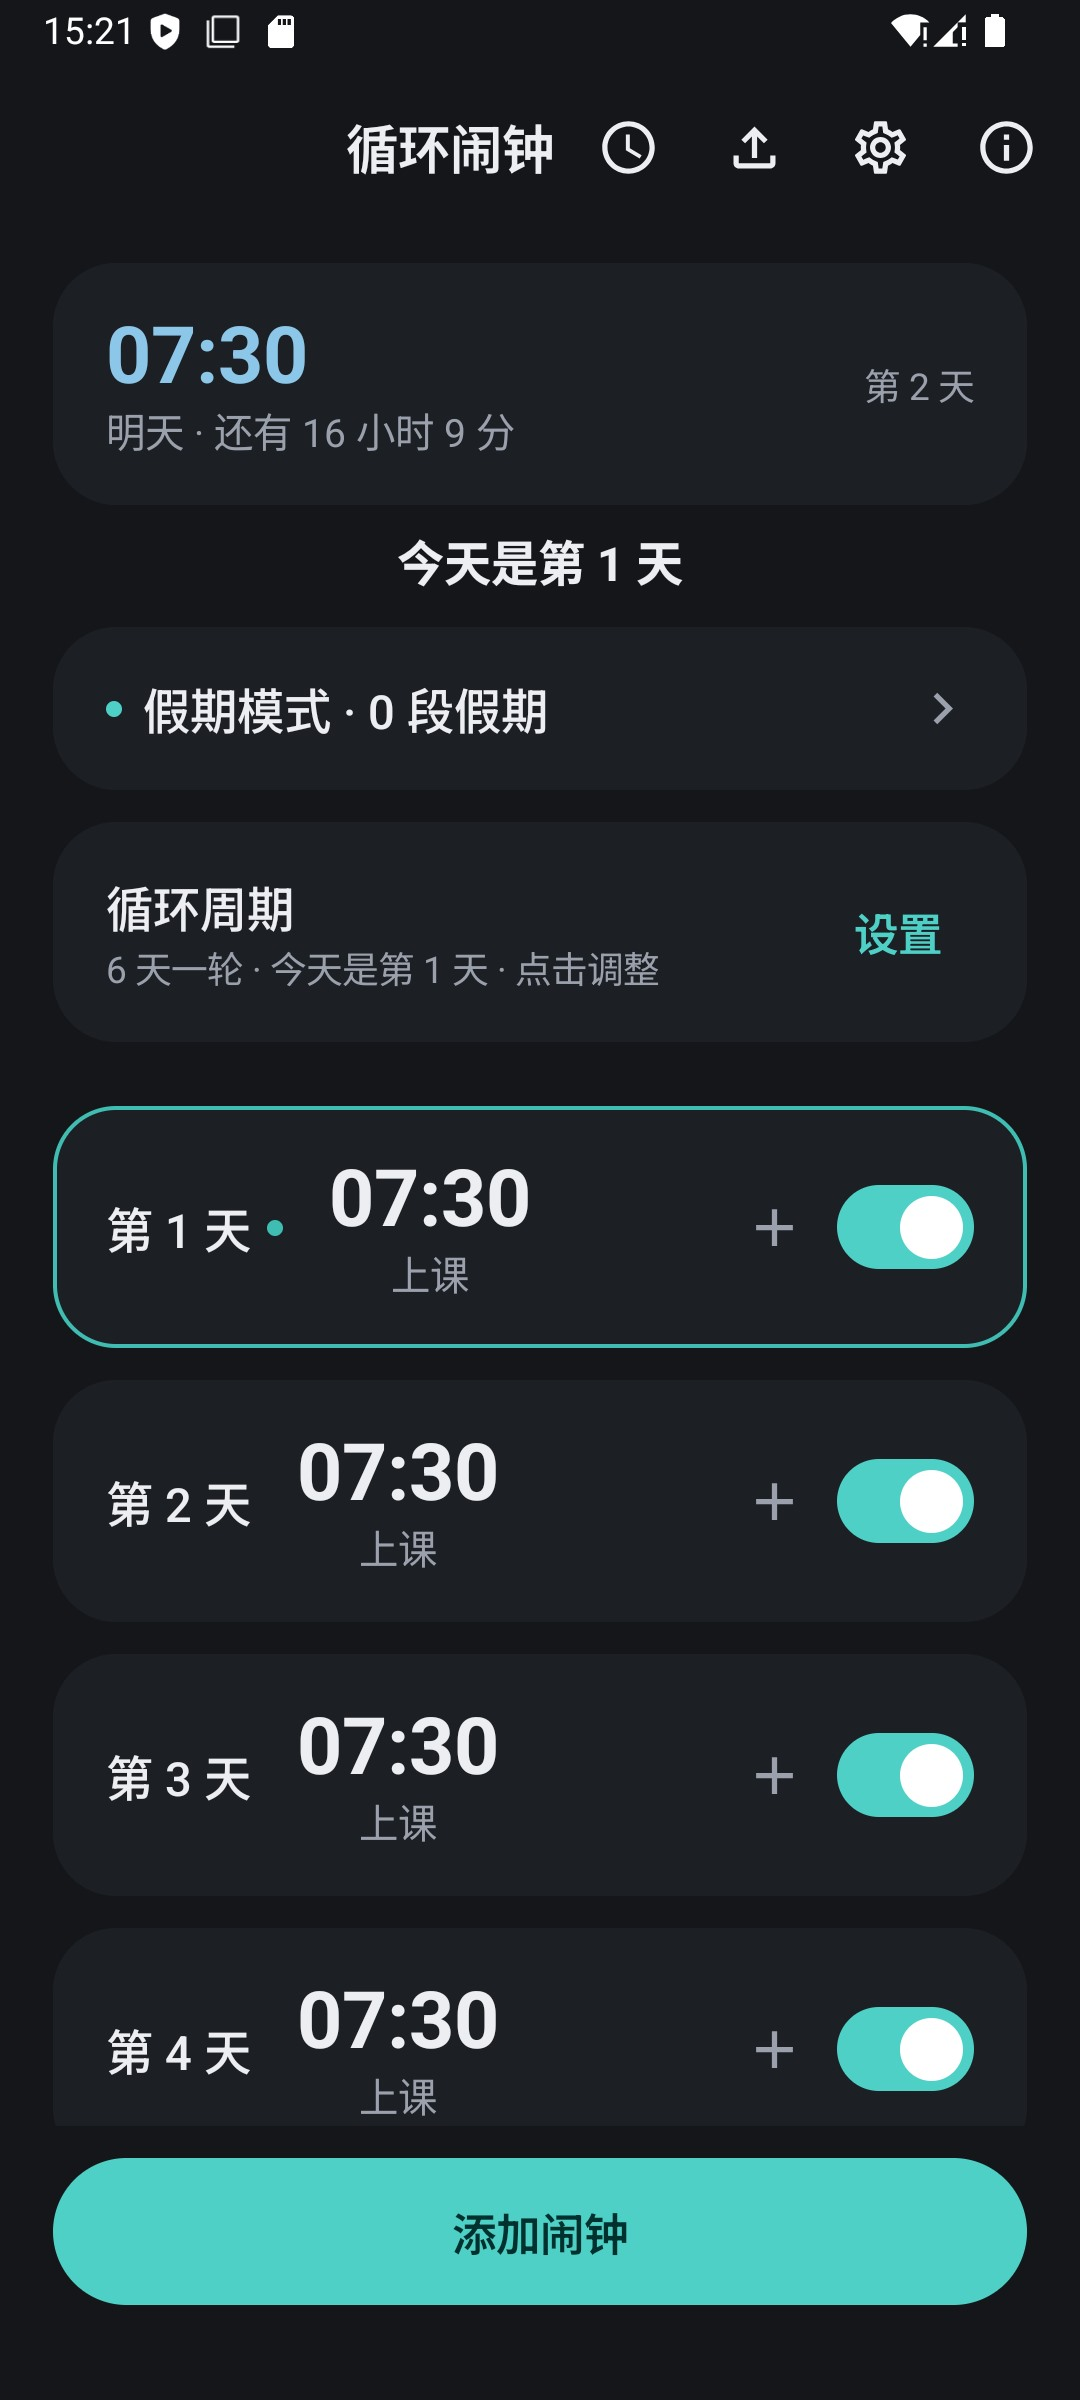
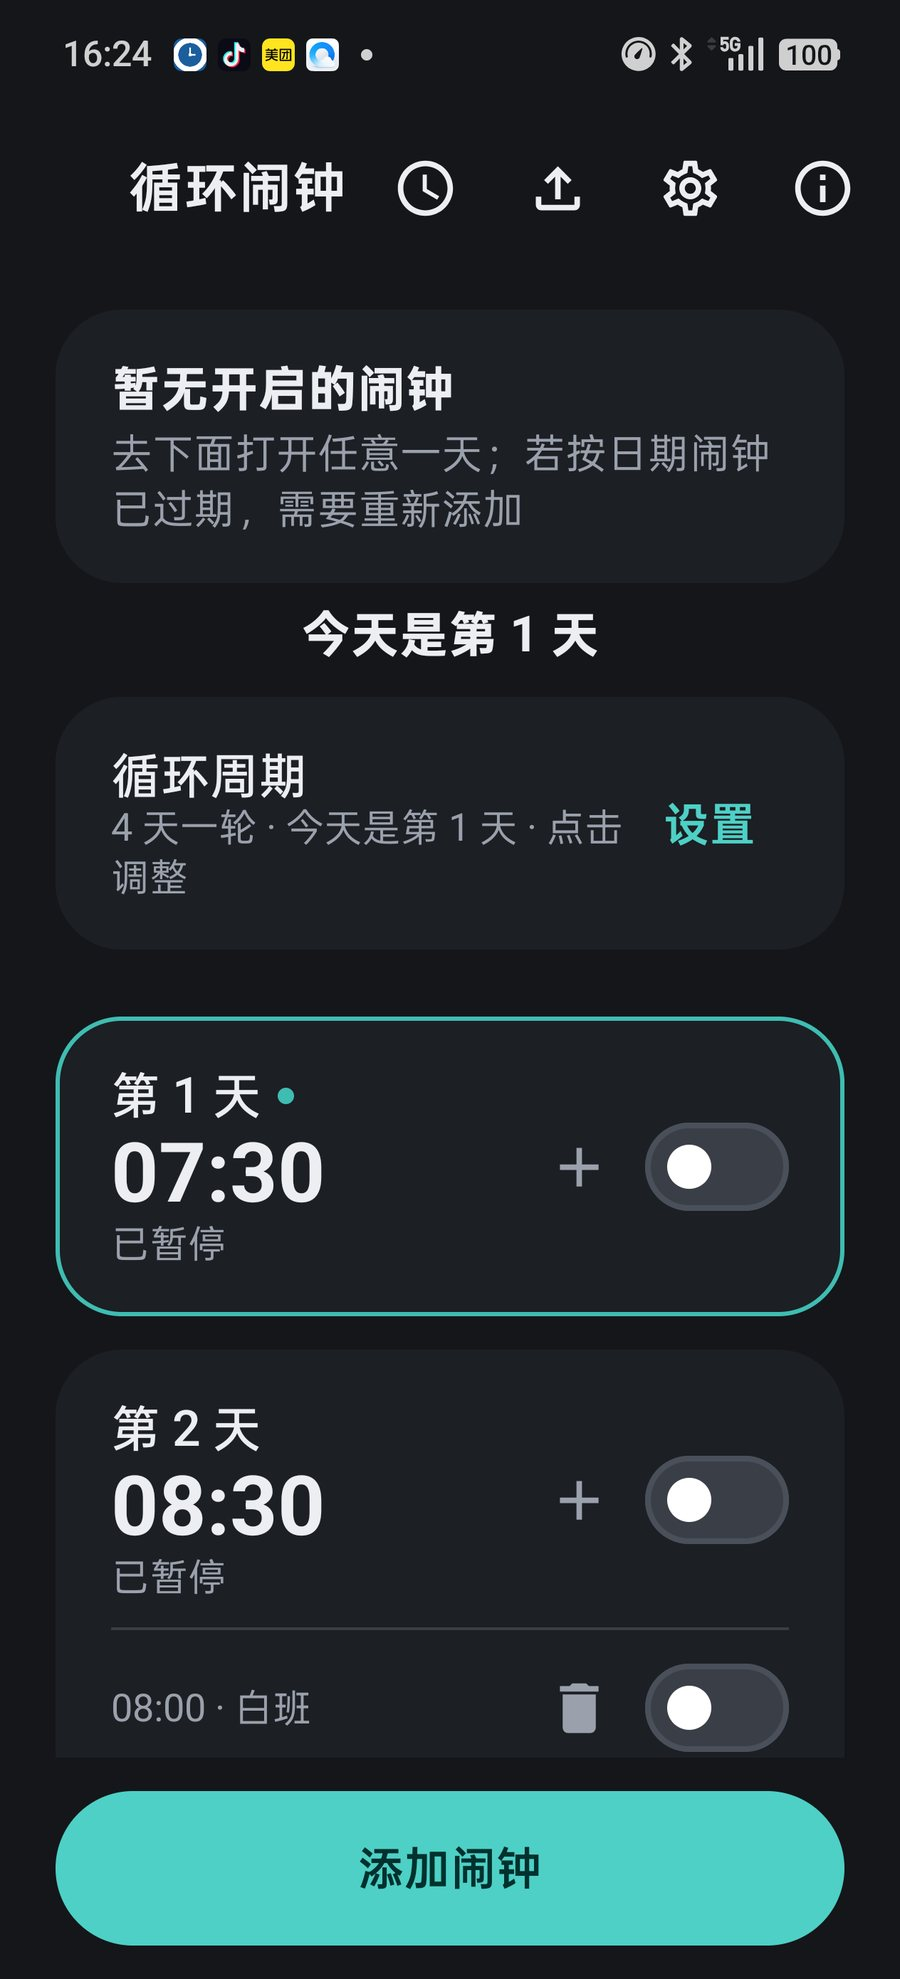
docs(screenshots): 换成 0.6.1 中文/英文/深色截图与双语设置页

diff --git a/README.md b/README.md
@@ -19,15 +19,19 @@
 > 目前的真机验证环境是 OPPO Find X7（ColorOS / Android 14），其它机型尚未逐一实测——遇到问题欢迎提 Issue。
 
 <p align="center">
-  <img src="docs/screenshots/main-light.jpg" width="230" alt="主界面（浅色）">
-  <img src="docs/screenshots/main-dark.jpg" width="230" alt="主界面（深色）">
-  <img src="docs/screenshots/holiday-light.jpg" width="230" alt="假期模式">
+  <img src="docs/screenshots/main-light.jpg" width="200" alt="主界面（中文 · 浅色）">
+  <img src="docs/screenshots/main-en.jpg" width="200" alt="主界面（English）">
+  <img src="docs/screenshots/main-dark.jpg" width="200" alt="主界面（深色）">
+  <img src="docs/screenshots/holiday-light.jpg" width="200" alt="假期模式">
 </p>
 
 <details>
-<summary>更多截图：设置页</summary>
+<summary>设置页截图（中文 / English）</summary>
 
-<img src="docs/screenshots/settings-light.jpg" width="250" alt="设置页">
+<p align="center">
+  <img src="docs/screenshots/settings-light.jpg" width="230" alt="设置页（中文）">
+  <img src="docs/screenshots/settings-en.jpg" width="230" alt="设置页（English）">
+</p>
 
 </details>
 
